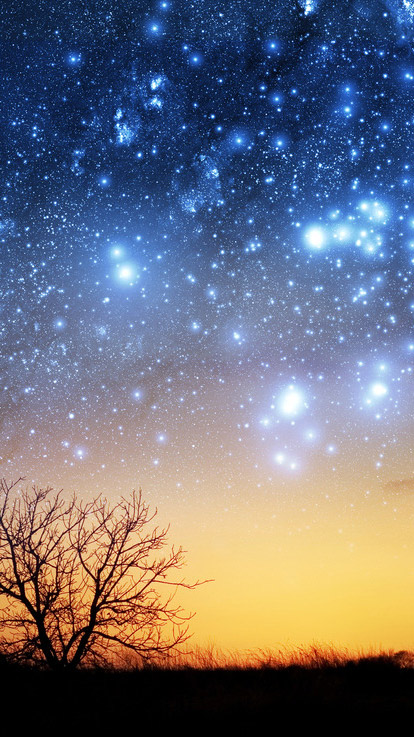
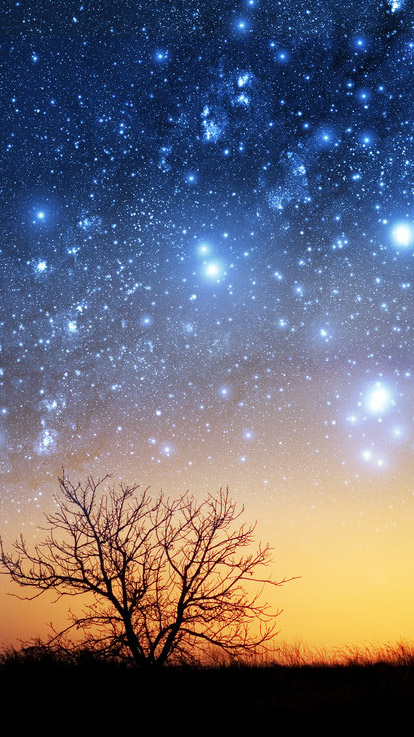
update animation

diff --git a/www/css/about.css b/www/css/about.css
@@ -13,43 +13,45 @@ html , body {
 }  
 
 .swiper-slide {
-	padding: 0 1rem;
 	line-height: 24px;
+	position: relative;
 }
 .slide1 {
-	background: rgb(114, 194, 203);
+/*	background: rgb(114, 194, 203);
 	background: -moz-linear-gradient(244deg, rgb(114, 194, 203) 0%, rgb(157, 140, 250) 64%);
 	background: -webkit-linear-gradient(244deg, rgb(114, 194, 203) 0%, rgb(157, 140, 250) 64%);
 	background: -o-linear-gradient(244deg, rgb(114, 194, 203) 0%, rgb(157, 140, 250) 64%);
 	background: -ms-linear-gradient(244deg, rgb(114, 194, 203) 0%, rgb(157, 140, 250) 64%);
-	background: linear-gradient(334deg, rgb(114, 194, 203) 0%, rgb(157, 140, 250) 64%);
+	background: linear-gradient(334deg, rgb(114, 194, 203) 0%, rgb(157, 140, 250) 64%);*/
 	color: #fff;
-	background: url(../img/bg02.jpg) no-repeat center center fixed;
+	background: url(../img/bg02.jpg) no-repeat center center ;
 	background-size: cover;
 
 }
 
 .slide2 {
 
-background: rgb(31, 213, 219);
+/*background: rgb(31, 213, 219);
 background: -moz-linear-gradient(282deg, rgb(31, 213, 219) 17%, rgb(229, 215, 255) 80%);
 background: -webkit-linear-gradient(282deg, rgb(31, 213, 219) 17%, rgb(229, 215, 255) 80%);
 background: -o-linear-gradient(282deg, rgb(31, 213, 219) 17%, rgb(229, 215, 255) 80%);
 background: -ms-linear-gradient(282deg, rgb(31, 213, 219) 17%, rgb(229, 215, 255) 80%);
-background: linear-gradient(12deg, rgb(31, 213, 219) 17%, rgb(229, 215, 255) 80%);
+background: linear-gradient(12deg, rgb(31, 213, 219) 17%, rgb(229, 215, 255) 80%);*/
 	color: #fff;
-	background: url(../img/bg03.jpg) no-repeat center center fixed;
+	background: url(../img/bg01.jpg) no-repeat center center ;
 	background-size: cover;
 }
 
 .slide3 {
-background: rgb(107, 213, 219);
+/*background: rgb(107, 213, 219);
 background: -moz-linear-gradient(291deg, rgb(107, 213, 219) 17%, rgb(128, 196, 153) 80%);
 background: -webkit-linear-gradient(291deg, rgb(107, 213, 219) 17%, rgb(128, 196, 153) 80%);
 background: -o-linear-gradient(291deg, rgb(107, 213, 219) 17%, rgb(128, 196, 153) 80%);
 background: -ms-linear-gradient(291deg, rgb(107, 213, 219) 17%, rgb(128, 196, 153) 80%);
-background: linear-gradient(21deg, rgb(107, 213, 219) 17%, rgb(128, 196, 153) 80%);
-
+background: linear-gradient(21deg, rgb(107, 213, 219) 17%, rgb(128, 196, 153) 80%);*/
+	color: #fff;
+	background: url(../img/bg03.jpg) no-repeat center center ;
+	background-size: cover;
 }
 
 .slide4 {
@@ -115,3 +117,23 @@ background: linear-gradient(21deg, rgb(255, 164, 219) 17%, rgb(235, 196, 153) 80
 	width: 86%;
 	text-shadow: 0 0 1px #222;
 }
+.filter-block {
+  font-size: 14px;
+  text-align: center;
+  display: flex;
+  flex-direction: row;
+  margin-top: 2rem;
+}
+
+.filter {
+
+  color: white;
+  padding: 5px;
+  font-size: 14px;
+  flex: 1;
+}    
+.filter img {
+	width: 45px;
+	height:45px;
+}
+

diff --git a/www/index.html b/www/index.html
@@ -23,7 +23,7 @@
 	        	<h2 class="ani title" swiper-animate-effect="fadeInUp" swiper-animate-duration="0.5s" swiper-animate-delay="0.3s">关于我们</h2>
 	        	<p class="ani" swiper-animate-effect="bounceInUp" swiper-animate-duration="0.8s" swiper-animate-delay="0.8s">Patterns 是 SVG fill 裏頭的一個有趣元素，記得在 CSS 裏頭，我們可以自訂背景的圖案，達到許多很有特色的變化，然而在 SVG 也是如此，而 SVG 比 CSS 更加強大的地方，是你所有的圖案 ...</p>
 	        	<p class="ani" swiper-animate-effect="fadeInLeft" swiper-animate-duration="0.5s" swiper-animate-delay="1.4s">feImage 是 SVG filter 裏頭最簡單的濾鏡，它可以幫助我們更實際的了解 filter 的原理，feImage 人如其名的就是把圖片當濾鏡，設定圖片的長寬，搭配 feTitle 就可以把圖片重複運 ...</p>
-
+	        	
 	        </div>
 	        
 	        <div class="swiper-slide slide2">
@@ -41,7 +41,12 @@
                 <p class="ani" swiper-animate-effect="lightSpeedIn" swiper-animate-duration="0.5s" swiper-animate-delay="2s">内容</p>
 	        </div>
 	        <div class="swiper-slide slide3">
-	        	Slide 3
+				<div class="filter-block">
+				    <div class="filter ani" swiper-animate-effect="rotateOut" swiper-animate-duration="0.8s" swiper-animate-delay="0.8s"><img src="img/Key.png" /></div>
+				    <div class="filter ani" swiper-animate-effect="bounceOut" swiper-animate-duration="0.8s" swiper-animate-delay="1s"><img src="img/Headphones.png" /></div>
+				    <div class="filter ani" swiper-animate-effect="rotateOut" swiper-animate-duration="0.8s" swiper-animate-delay="1.5s"><img src="img/Mobile.png" /></div>
+				    <div class="filter ani" swiper-animate-effect="bounceOut" swiper-animate-duration="0.8s" swiper-animate-delay="2s"><img src="img/Notebook.png" /></div>
+				  </div>  
 
 
  
